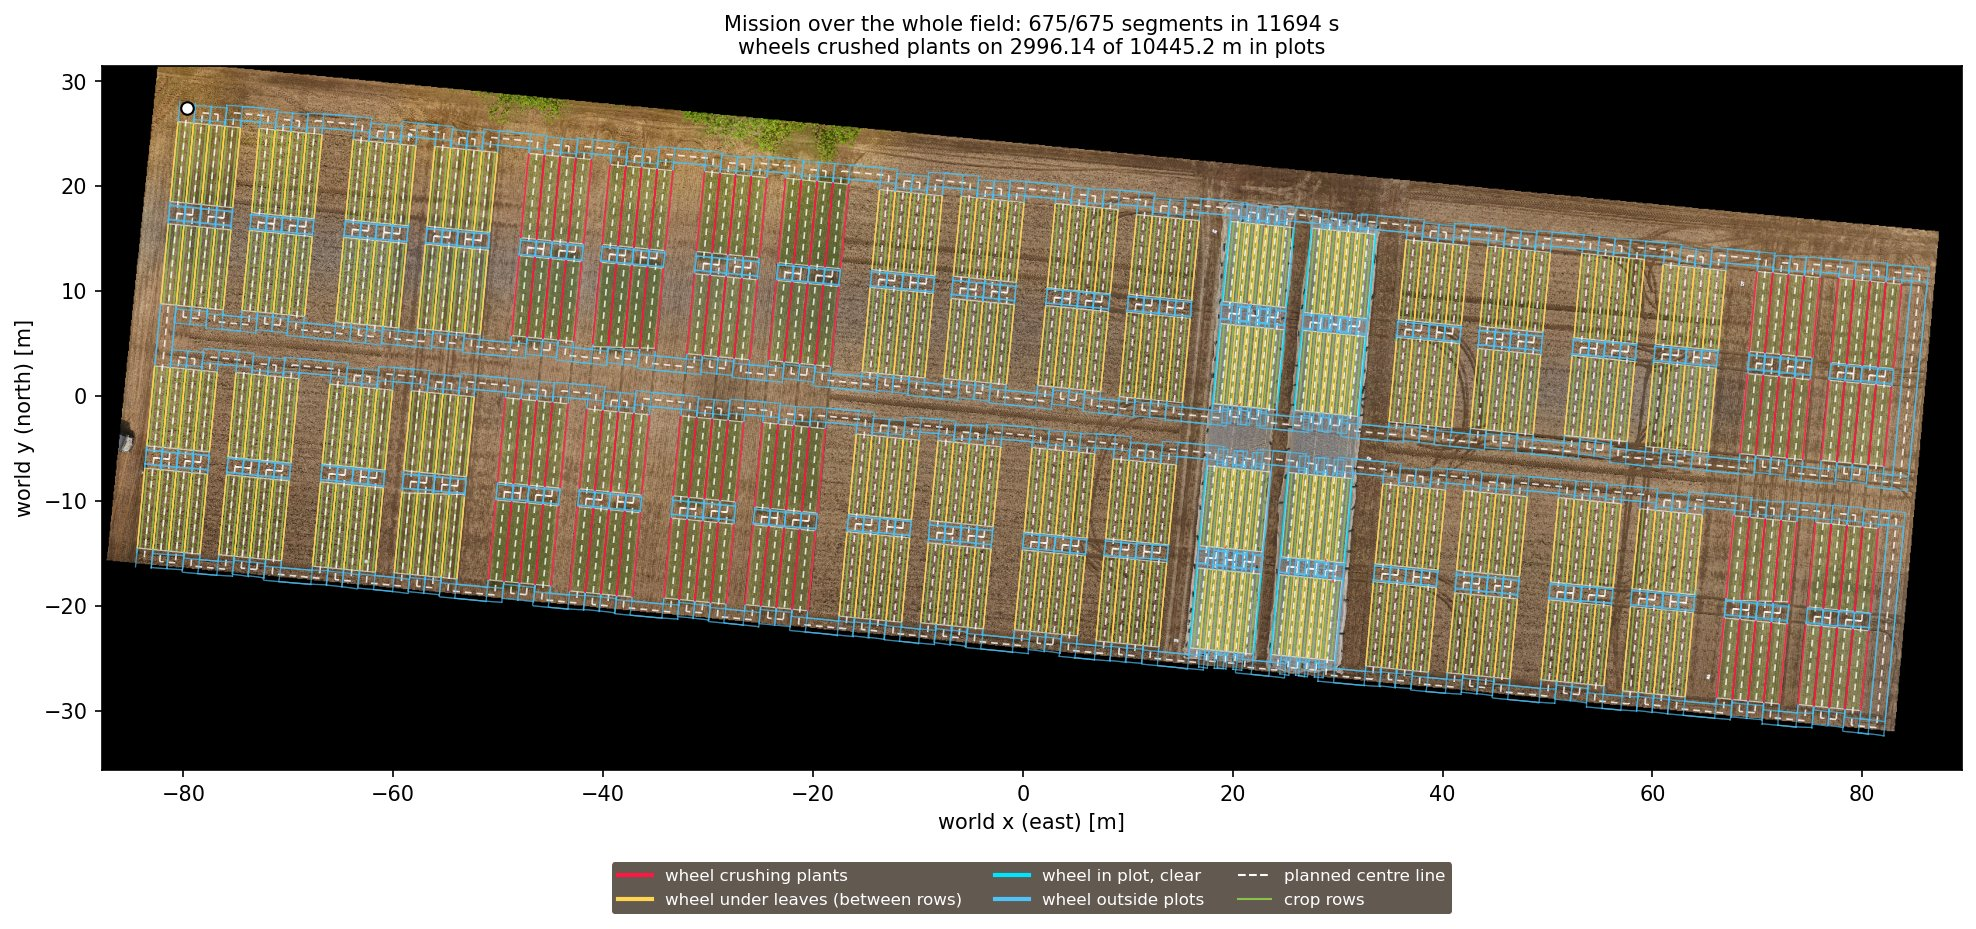
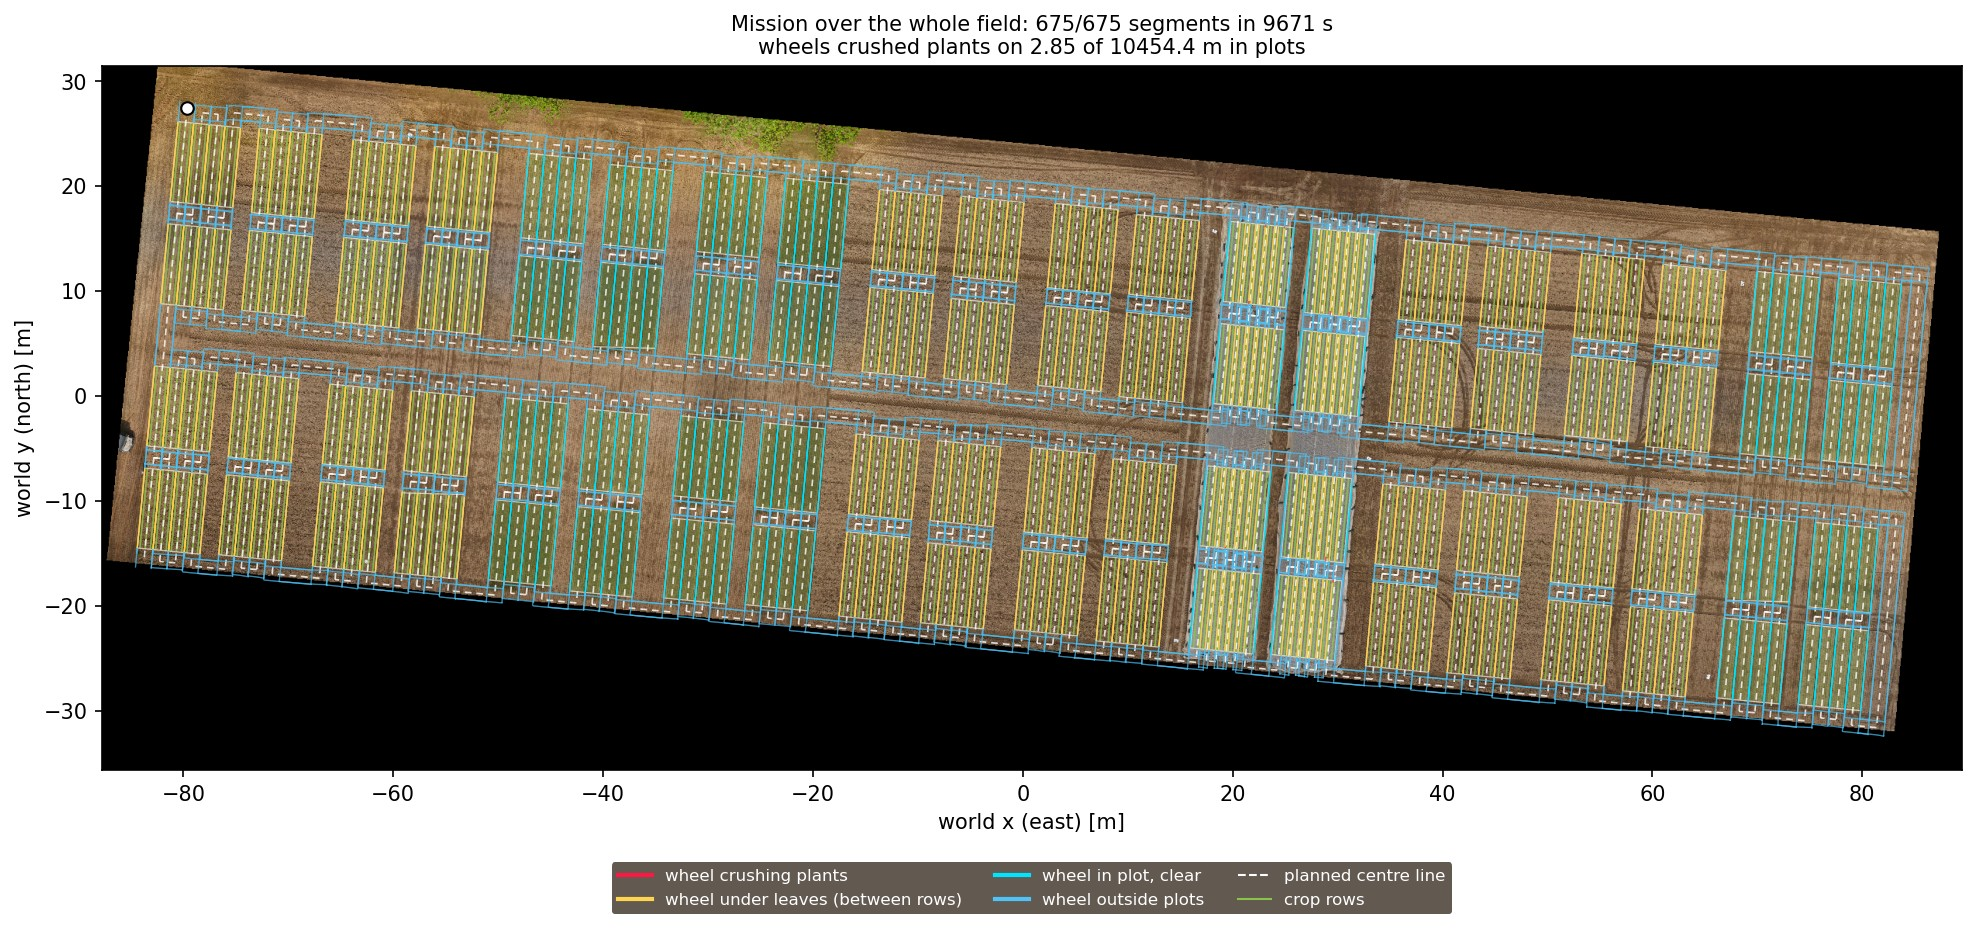
Report the final run with tramlines

diff --git a/README.md b/README.md
@@ -1,4 +1,4 @@
-# Agricultural UGV simulation (work in progress)
+# Agricultural UGV simulation
 
 [![CI](https://github.com/abshahidthe01-afk/agri-ugv-sim/actions/workflows/ci.yml/badge.svg)](https://github.com/abshahidthe01-afk/agri-ugv-sim/actions/workflows/ci.yml)
 
@@ -42,48 +42,53 @@ rows on real terrain. ROS 2 Humble and Gazebo Fortress.
 
 ## Results: the whole field
 
-The final run drove the coverage mission over all 80 plots with everything on: the C++
-driver, the 3D LiDAR (obstacle stop and crop rows), both line scanners, the 4 top dome
-cameras colouring the 3D points and the plant map; Gazebo without its window
-(`gui:=false`).
+The final run drove the coverage mission over all 80 plots, the cereals with their
+tramlines: the C++ driver, the 3D LiDAR (obstacle stop and crop rows), both line scanners
+and the plant map; Gazebo without its window (`gui:=false`).
 
 | | Final run |
 |---|---|
 | Segments | 675 of 675 (4.09 km driven, 4.03 km planned) |
-| Simulated time | 3.25 h, of which 0.58 h false obstacle stops (see Limitations) |
-| Wall-clock time | 4.7 h (real-time factor 0.69) |
-| Robot centre to the planned line, mean / 95 % | 1.2 / 4.0 cm |
-| Localization error, mean / 95 % | 1.3 / 2.5 cm; across the rows 0.8 / 1.9 cm; the uncertainty it reports fits ((error/sigma)² 2.0, about 2 expected) |
-| Crop rows found in the LiDAR | the right row in 100 % of 37,662 scans (potato, soybean, sugar beet, sugar corn) |
-| Wheels crushing plants | 28.7 % of the wheel travel in plots, all but 1.9 m in the drilled cereals and mixtures (no gap between rows for a wheel; 11.7 % of their area flattened); none in potato, sugar beet and sugar corn |
-| Plant map against the generated plants | 80 plots, 70 % of each seen; cover within -9 to +7 points, canopy height within -2.8 to +6.0 cm ([plant map](docs/plant_map.md)) |
-| 3D point clouds | 80 plots (235 MB of PLY), coloured from 93,489 dome pictures |
+| Simulated time | 2.69 h, of which 35 s short stops for late LiDAR scans (see Limitations) |
+| Wall-clock time | 4.1 h (real-time factor 0.65) |
+| Robot centre to the planned line, mean / 95 % | 1.2 / 4.2 cm |
+| Localization error, mean / 95 % | 1.3 / 2.6 cm; across the rows 0.8 / 2.0 cm; the uncertainty it reports fits ((error/sigma)² 1.9, about 2 expected) |
+| Crop rows found in the LiDAR | the right row in 100 % of 27,688 scans (potato, soybean, sugar beet, sugar corn) |
+| Wheels crushing plants | 0.03 % of the wheel travel in plots (2.85 of 10,454 m: soybean 2.44 m, summer wheat 0.42 m); in the cereals the wheels run on the tramlines (0.0 % of the crop flattened) |
+| Plant map against the generated plants | 80 plots, 69 % of each seen; cover within -9 to +7 points, canopy height within -3.0 to +6.0 cm ([plant map](docs/plant_map.md)) |
+| 3D point clouds | 80 plots (151 MB of PLY) |
 
+The run before the tramlines took 3.25 h of simulated time, 0.58 h of it in stops for
+obstacles that were not there (see Limitations), and its wheels crushed plants on 28.7 % of
+their travel in plots, nearly all in the drilled cereals (no gap between rows for a wheel).
 The first whole-field run, with an earlier version of the software, took 2.85 h of
 simulated time for 643 segments, with 1.9 cm mean localization error and plants
 crushed on 32.5 % of the wheel travel in plots.
 
-![The final run: the wheel tracks over the aerial photo (red: crushing plants, yellow: under leaves between the rows)](docs/images/final_run.jpg)
+![The final run: the wheel tracks over the aerial photo (yellow: under leaves between the rows, cyan: clear of the plants, as on the tramlines, red: crushing plants)](docs/images/final_run.jpg)
 
 ## Limitations
 
 - The plants are generated, not measured: shapes, sizes and row spacings are assumed.
   Cereal rows are picture strips, so their height reads 3-6 cm high.
+- The tramlines leave 8 of the 48 cereal rows unsown (17 %), because the robot passes every
+  1.5 m; on farms tramlines lie a sprayer's width apart and take a few percent of the field.
 - The line scanners take 10 profiles per second (the real ones 200), 5 cm apart along the
   rows: about half of the leaves' top surface has a point within 2 cm. More profiles
   overload the simulation on the GTX 1650 used here.
 - The dome cameras give 640 x 480 pictures (the real ones 45 megapixels) of plants in the
   roof's shade (the LED panels give no light). The 3D reconstruction uses Gazebo's exact
   depth images instead of matching the pictures, and covers one stop.
-- In the final run the robot stopped 40 times (2,070 s) for obstacles that were not there:
-  Gazebo's LiDAR returns one beam, straight behind the robot at the seam of its view, about
+- Gazebo's LiDAR returns one beam, straight behind the robot at the seam of its view, about
   30 cm too far. That point lies below the ground, and measured from it the tallest sweet
-  corn stood 1 m high while the robot drove backwards. The obstacle stop now ignores a single
-  stray point; plot 172 drives through without a stop since (the whole field has not been
-  run again).
-- The published pose sometimes jumps for one or two samples (61 times in 3.25 h, up to 15 cm
-  for 20 ms) and comes back; without these the largest error was 6.2 cm. The cause is not
-  found yet.
+  corn stood 1 m high: in the run before the final one the robot stopped 40 times (2,070 s)
+  for it while driving backwards. The obstacle stop now ignores a single stray point, and
+  the final run had no such stop.
+- The mission also stands still while no LiDAR scan has come for 0.5 s (a safety rule): in
+  the final run 31 times, about 1 s each (35 s in total), when scans came late.
+- The published pose sometimes jumps by a few centimetres for a moment, the larger jumps all
+  at 0.5 m/s between the plots: in the final run the largest error was 5.8 cm (15 cm in the
+  run before). The cause is not found yet.
 - GNSS errors, wheel slip and soil are simulated models; the field run had RTK fixed GNSS
   throughout.
 

diff --git a/docs/plant_map.md b/docs/plant_map.md
@@ -54,15 +54,15 @@ pose estimate; the map against the true canopy, per crop (mean over its plots):
 
 | Crop | Plots | Seen | Cover: truth / map | Canopy height: map minus truth |
 |---|---|---|---|---|
-| Potato | 16 | 71 % | 80 % / 85 % | +1.0 cm (+0.6 to +1.5) |
-| Sugar beet | 16 | 72 % | 89 % / 95 % | +1.5 cm (+1.0 to +2.5) |
-| Sugar corn | 16 | 74 % | 75 % / 67 % | -2.0 cm (-2.8 to -1.4) |
+| Potato | 16 | 72 % | 80 % / 85 % | +1.1 cm (+0.6 to +1.5) |
+| Sugar beet | 16 | 72 % | 89 % / 95 % | +1.5 cm (+0.9 to +2.6) |
+| Sugar corn | 16 | 74 % | 75 % / 67 % | -2.0 cm (-3.0 to -1.4) |
 | Soybean | 8 | 75 % | 59 % / 59 % | +1.9 cm (+1.7 to +2.1) |
-| Summer wheat | 16 | 63 % | 98 % / 98 % | +4.6 cm (+3.2 to +5.6) |
-| Mixtures (faba, faba-wheat, wheat) | 8 | 61-66 % | 97-98 % / 98 % | +3.6 to +5.9 cm |
+| Summer wheat | 16 | 59 % | 97 % / 98 % | +4.8 cm (+3.4 to +5.5) |
+| Mixtures (faba, faba-wheat, wheat) | 8 | 55-61 % | 98 % / 97 % | +3.7 to +5.9 cm |
 
 Over all 80 plots cover is within -9 to +7 points of the truth and canopy height within
--2.8 to +6.0 cm (mean size of the difference 3.9 points and 2.5 cm). Sugar corn is the
+-3.0 to +6.0 cm (mean size of the difference 4.0 points and 2.5 cm). Sugar corn is the
 only crop whose cover reads low (-7 to -9 points), probably because its long, narrow leaves
 fall between profiles 5 cm apart.
 
@@ -158,7 +158,8 @@ the points on leaves are also higher than 6 cm. In sugar beet, whose leaves stan
 the soil, the colour adds the model's colour rather than a better plant mask. The 4 cameras
 take the real-time factor from 0.64 to 0.49 (robot driving, scanners off); the plants lie in
 the roof's shade (mean brightness 37 of 255; the real robot lights them with LED panels and
-closes curtains), so the picture below shows the colours brightened.
+closes curtains), so the picture below shows the colours brightened. A whole-field survey,
+before the cereals had tramlines, coloured the clouds of all 80 plots from 93,489 pictures.
 
 ![Plot 198: the laser line scanners' 3D points, coloured by the dome cameras](images/plant_cloud_198.png)
 
